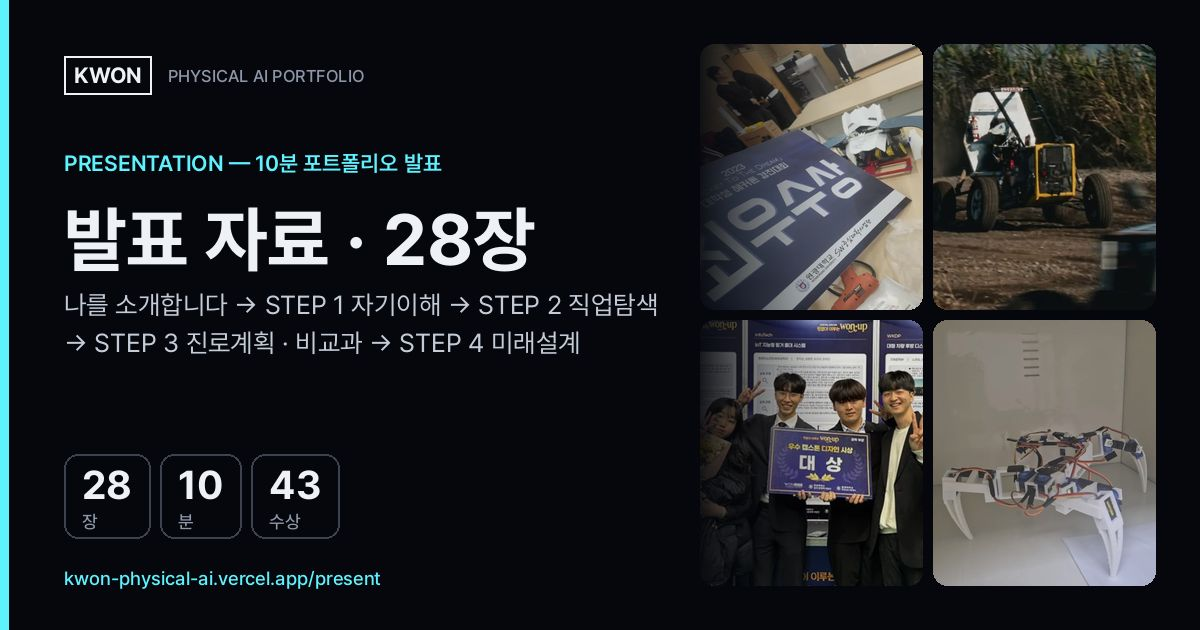
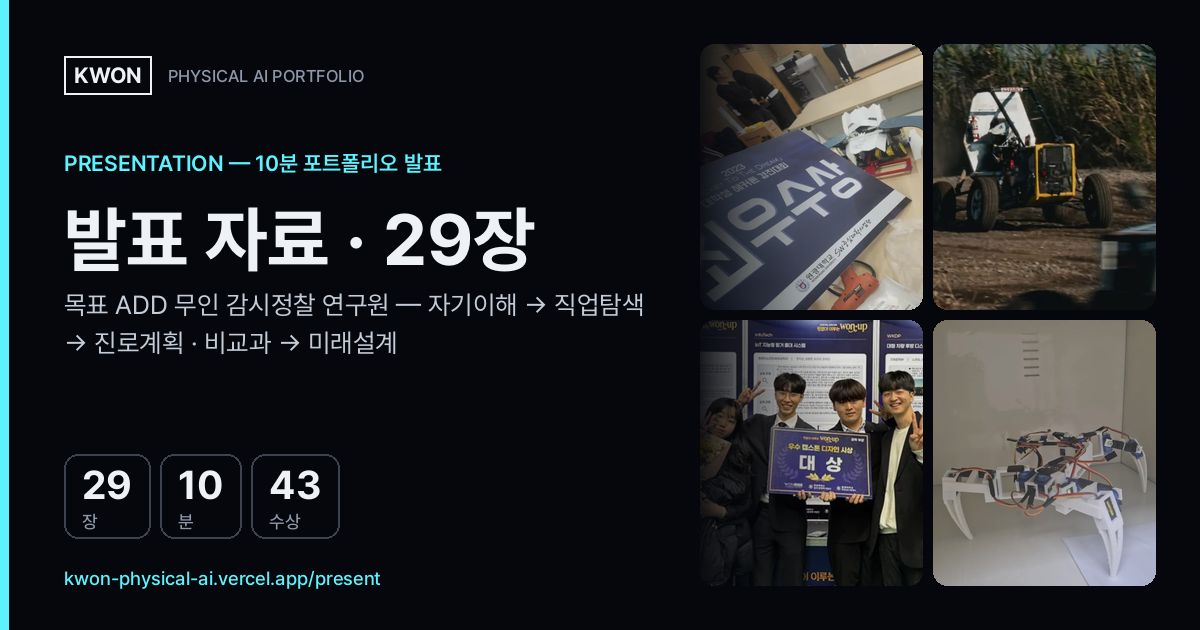
Link preview for /present: 29 slides and the ADD goal
Claude-Session: https://claude.ai/code/session_01Ca3TmxwhRtjsphueRocSn3

Changed region(s): [[0.0617, 0.4524, 0.555, 0.573], [0.3392, 0.3619, 0.4008, 0.4222], [0.0925, 0.754, 0.1233, 0.7841]]

diff --git a/vite.config.js b/vite.config.js
@@ -86,7 +86,7 @@ function pageMeta() {
         {
           path: '/present',
           title: `발표 자료 — 자기이해 · 직업탐색 · 진로계획 · 미래설계 — ${NAME}`,
-          desc: `10분 포트폴리오 발표(28장): 나를 소개합니다 → STEP 1 자기이해(SWOT · 대응 전략) → STEP 2 직업탐색(희망 직무 · 요구 역량) → STEP 3 진로계획 및 비교과(대표 프로젝트 · 수상 ${awards.length} · 봉사 · 자격) → STEP 4 미래설계(단기 · 중기 · 장기 목표).`,
+          desc: `10분 포트폴리오 발표(29장) — 목표 ADD 무인 감시정찰 연구원: 나를 소개합니다 → STEP 1 자기이해(SWOT · 대응 전략) → STEP 2 직업탐색(희망 직무 · 요구 역량) → STEP 3 진로계획 및 비교과(대표 프로젝트 · 공식 보도 · 수상 ${awards.length} · 봉사 · 자격) → STEP 4 미래설계(로보틱스 대학원 → ADD).`,
           image: og('growth'),
         },
         {

diff --git a/scripts/og_cards.py b/scripts/og_cards.py
@@ -278,9 +278,9 @@ def main():
     # 성장 과정: 학년마다 대표 프로젝트 한두 개의 사진(1학년 해커톤 로봇 → 2학년 자작차 → 3학년 링거폴대 · 4족보행)
     grown = [by_id[i]['cover'] for i in ['robot-push-hackathon', 'baja-ev-formula', 'iot-iv-pole', 'quadruped-robot'] if i in by_id and by_id[i].get('cover')]
     # 발표 자료(/present · /growth): 경진대회 안내서의 목차 그대로 — 학년마다 대표 프로젝트 사진
-    section_card(os.path.join(OUT, 'growth.jpg'), 'PRESENTATION — 10분 포트폴리오 발표', '발표 자료 · 28장',
-                 '나를 소개합니다 → STEP 1 자기이해 → STEP 2 직업탐색 → STEP 3 진로계획 · 비교과 → STEP 4 미래설계',
-                 [('28', '장'), ('10', '분'), (str(len(awards)), '수상')], grown, '/present')
+    section_card(os.path.join(OUT, 'growth.jpg'), 'PRESENTATION — 10분 포트폴리오 발표', '발표 자료 · 29장',
+                 '목표 ADD 무인 감시정찰 연구원 — 자기이해 → 직업탐색 → 진로계획 · 비교과 → 미래설계',
+                 [('29', '장'), ('10', '분'), (str(len(awards)), '수상')], grown, '/present')
     section_card(os.path.join(OUT, 'history.jpg'), 'BY GRADE — 학년별 비교과 · 경력', 'History · 2023 — 2026',
                  '연구실 · 인턴십 · 동아리 · 전공 · 창업 · 수상 — 학년마다 한 일',
                  [('4', '연도'), (str(len(projects)), '프로젝트'), (str(len(awards)), '수상')], covers[:4], '/history')
